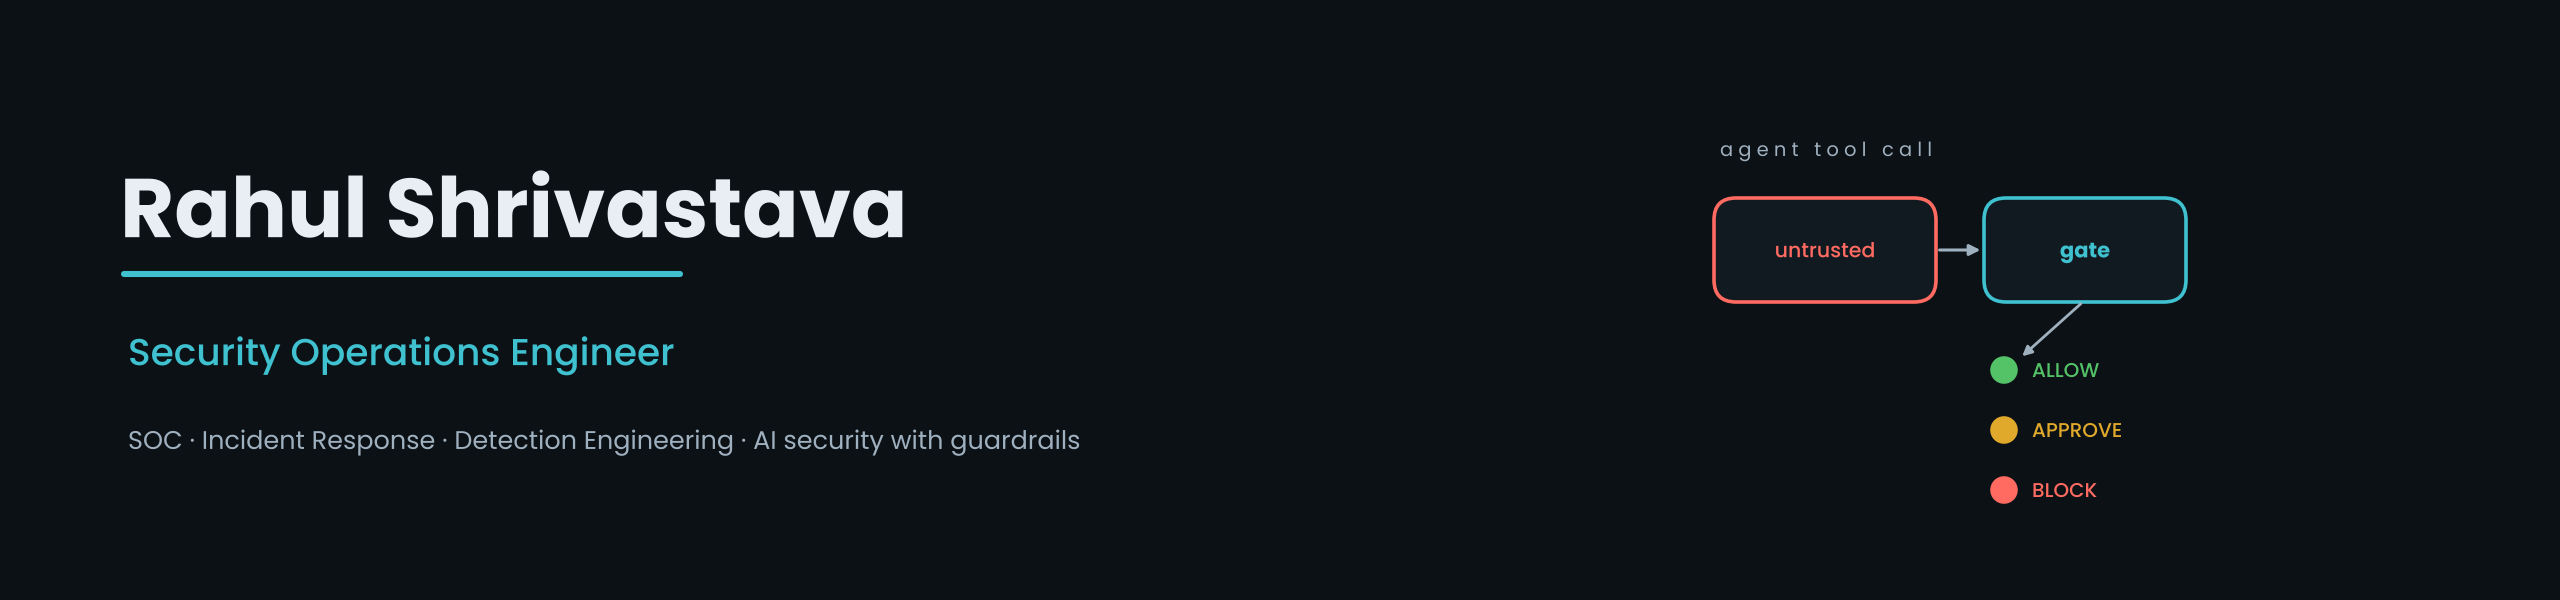
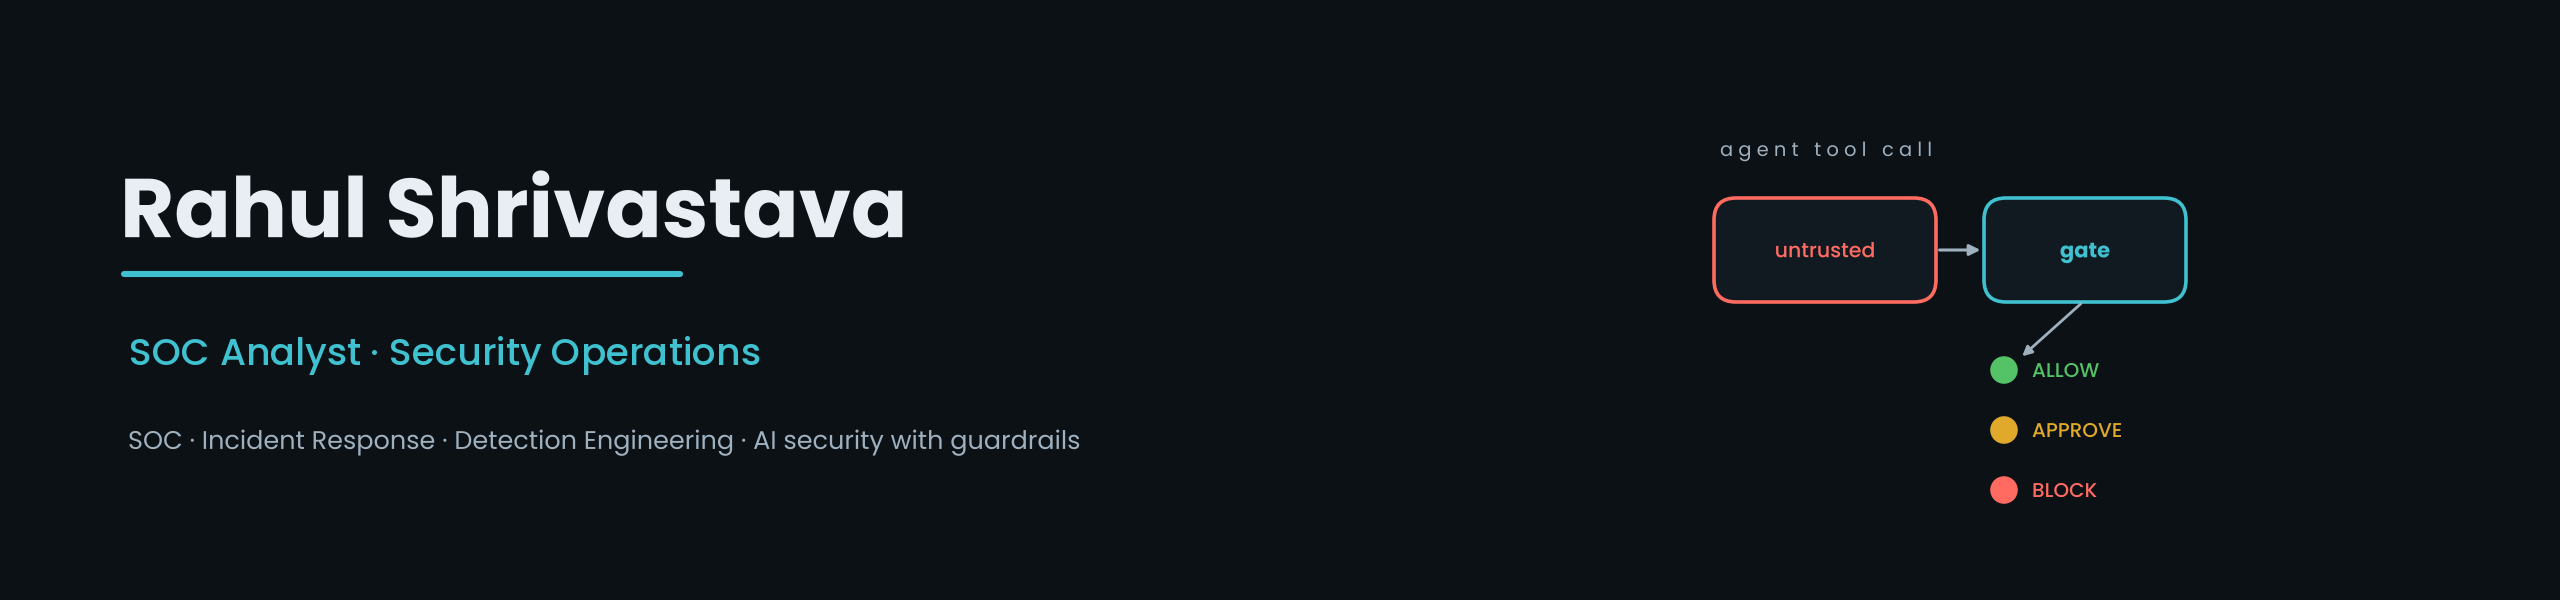
Use SOC Analyst as the profile title to match my resume

Changed region(s): [[0.0312, 0.57, 0.3125, 0.63]]

diff --git a/README.md b/README.md
@@ -1,7 +1,7 @@
 <p align="center">
   <picture>
     <source media="(prefers-color-scheme: dark)" srcset="assets/banner-dark.png" />
-    <img src="assets/banner-light.png" alt="Rahul Shrivastava — Security Operations Engineer" width="100%" />
+    <img src="assets/banner-light.png" alt="Rahul Shrivastava — SOC Analyst · Security Operations" width="100%" />
   </picture>
 </p>
 
@@ -32,7 +32,7 @@
 ```yaml
 # rahul.yaml — policy-as-code, applied to a career
 name:        Rahul Shrivastava
-role:        Security Operations Engineer
+role:        SOC Analyst
 experience:  "3+ years — SOC L2 @ WellMark Technology · freelance IR, SOC monitoring & VAPT"
 operates:    [Splunk, Microsoft Sentinel, Google Chronicle, Defender XDR, Splunk SOAR, Palo Alto XSOAR]
 builds:      "Python automation that makes SOCs faster — and auditable"
